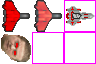
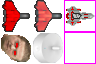
improved number box slider

Changed region(s): [[0.3125, 0.5, 0.6875, 1.0]]

diff --git a/src/core/imgui.c b/src/core/imgui.c
@@ -86,6 +86,8 @@ typedef struct
     int prior_mouse_x, prior_mouse_y;
     int mouse_x, mouse_y;
 
+    int slider_mouse_x, slider_mouse_y; //starting coords for adjusting slider
+
     PanelProps panel_props;
     TextBoxProps text_box_props;
 
@@ -198,6 +200,13 @@ void imgui_begin(char* name, int x, int y)
 
     ctx->prior_mouse_x = ctx->mouse_x;
     ctx->prior_mouse_y = ctx->mouse_y;
+
+    bool mouse_went_down = window_mouse_left_went_down();
+    if(mouse_went_down)
+    {
+        ctx->slider_mouse_x = ctx->mouse_x;
+        ctx->slider_mouse_y = ctx->mouse_y;
+    }
 
     window_get_mouse_view_coords(&ctx->mouse_x, &ctx->mouse_y);
 }
@@ -810,7 +819,17 @@ Vector2f imgui_number_box_formatted(char* label, int min, int max, char* format,
         else
         {
             // update val
-            *val += (ctx->mouse_x - ctx->prior_mouse_x);
+            int range = max - min;
+            int thresh = RANGE((view_width/4) / range, 1, 10);
+
+            int dif = ctx->mouse_x - ctx->slider_mouse_x;
+            if(ABS(dif) >= thresh)
+            {
+                *val += ABS(dif)/dif;
+                ctx->slider_mouse_x = ctx->mouse_x;
+            }
+
+            // *val += (ctx->mouse_x - ctx->prior_mouse_x);
             *val = RANGE(*val, min,max);
         }
     }
@@ -881,6 +900,12 @@ void imgui_text_box(char* label, char* buf, int bufsize)
         window_mouse_set_cursor_ibeam();
 
         bool mouse_went_down = window_mouse_left_went_down();
+
+        if(mouse_went_down)
+        {
+            printf("mouse went down\n");
+        }
+
 
         if(mouse_went_down || ctx->text_box_props.text_click_held)
         {

diff --git a/src/player.c b/src/player.c
@@ -50,7 +50,7 @@ void player_init_local2()
     window_controls_add_key(&p->actions[PLAYER_ACTION_BACKWARD].state, GLFW_KEY_DOWN);
     window_controls_add_key(&p->actions[PLAYER_ACTION_LEFT].state, GLFW_KEY_LEFT);
     window_controls_add_key(&p->actions[PLAYER_ACTION_RIGHT].state, GLFW_KEY_RIGHT);
-    window_controls_add_key(&p->actions[PLAYER_ACTION_SHOOT].state, GLFW_KEY_M);
+    window_controls_add_key(&p->actions[PLAYER_ACTION_SHOOT].state, GLFW_KEY_RIGHT_SHIFT);
     memcpy(p->settings.name, "Decker", strlen("Decker"));
     p->settings.color = COLOR_RED;
     p->settings.sprite_index = 3;
